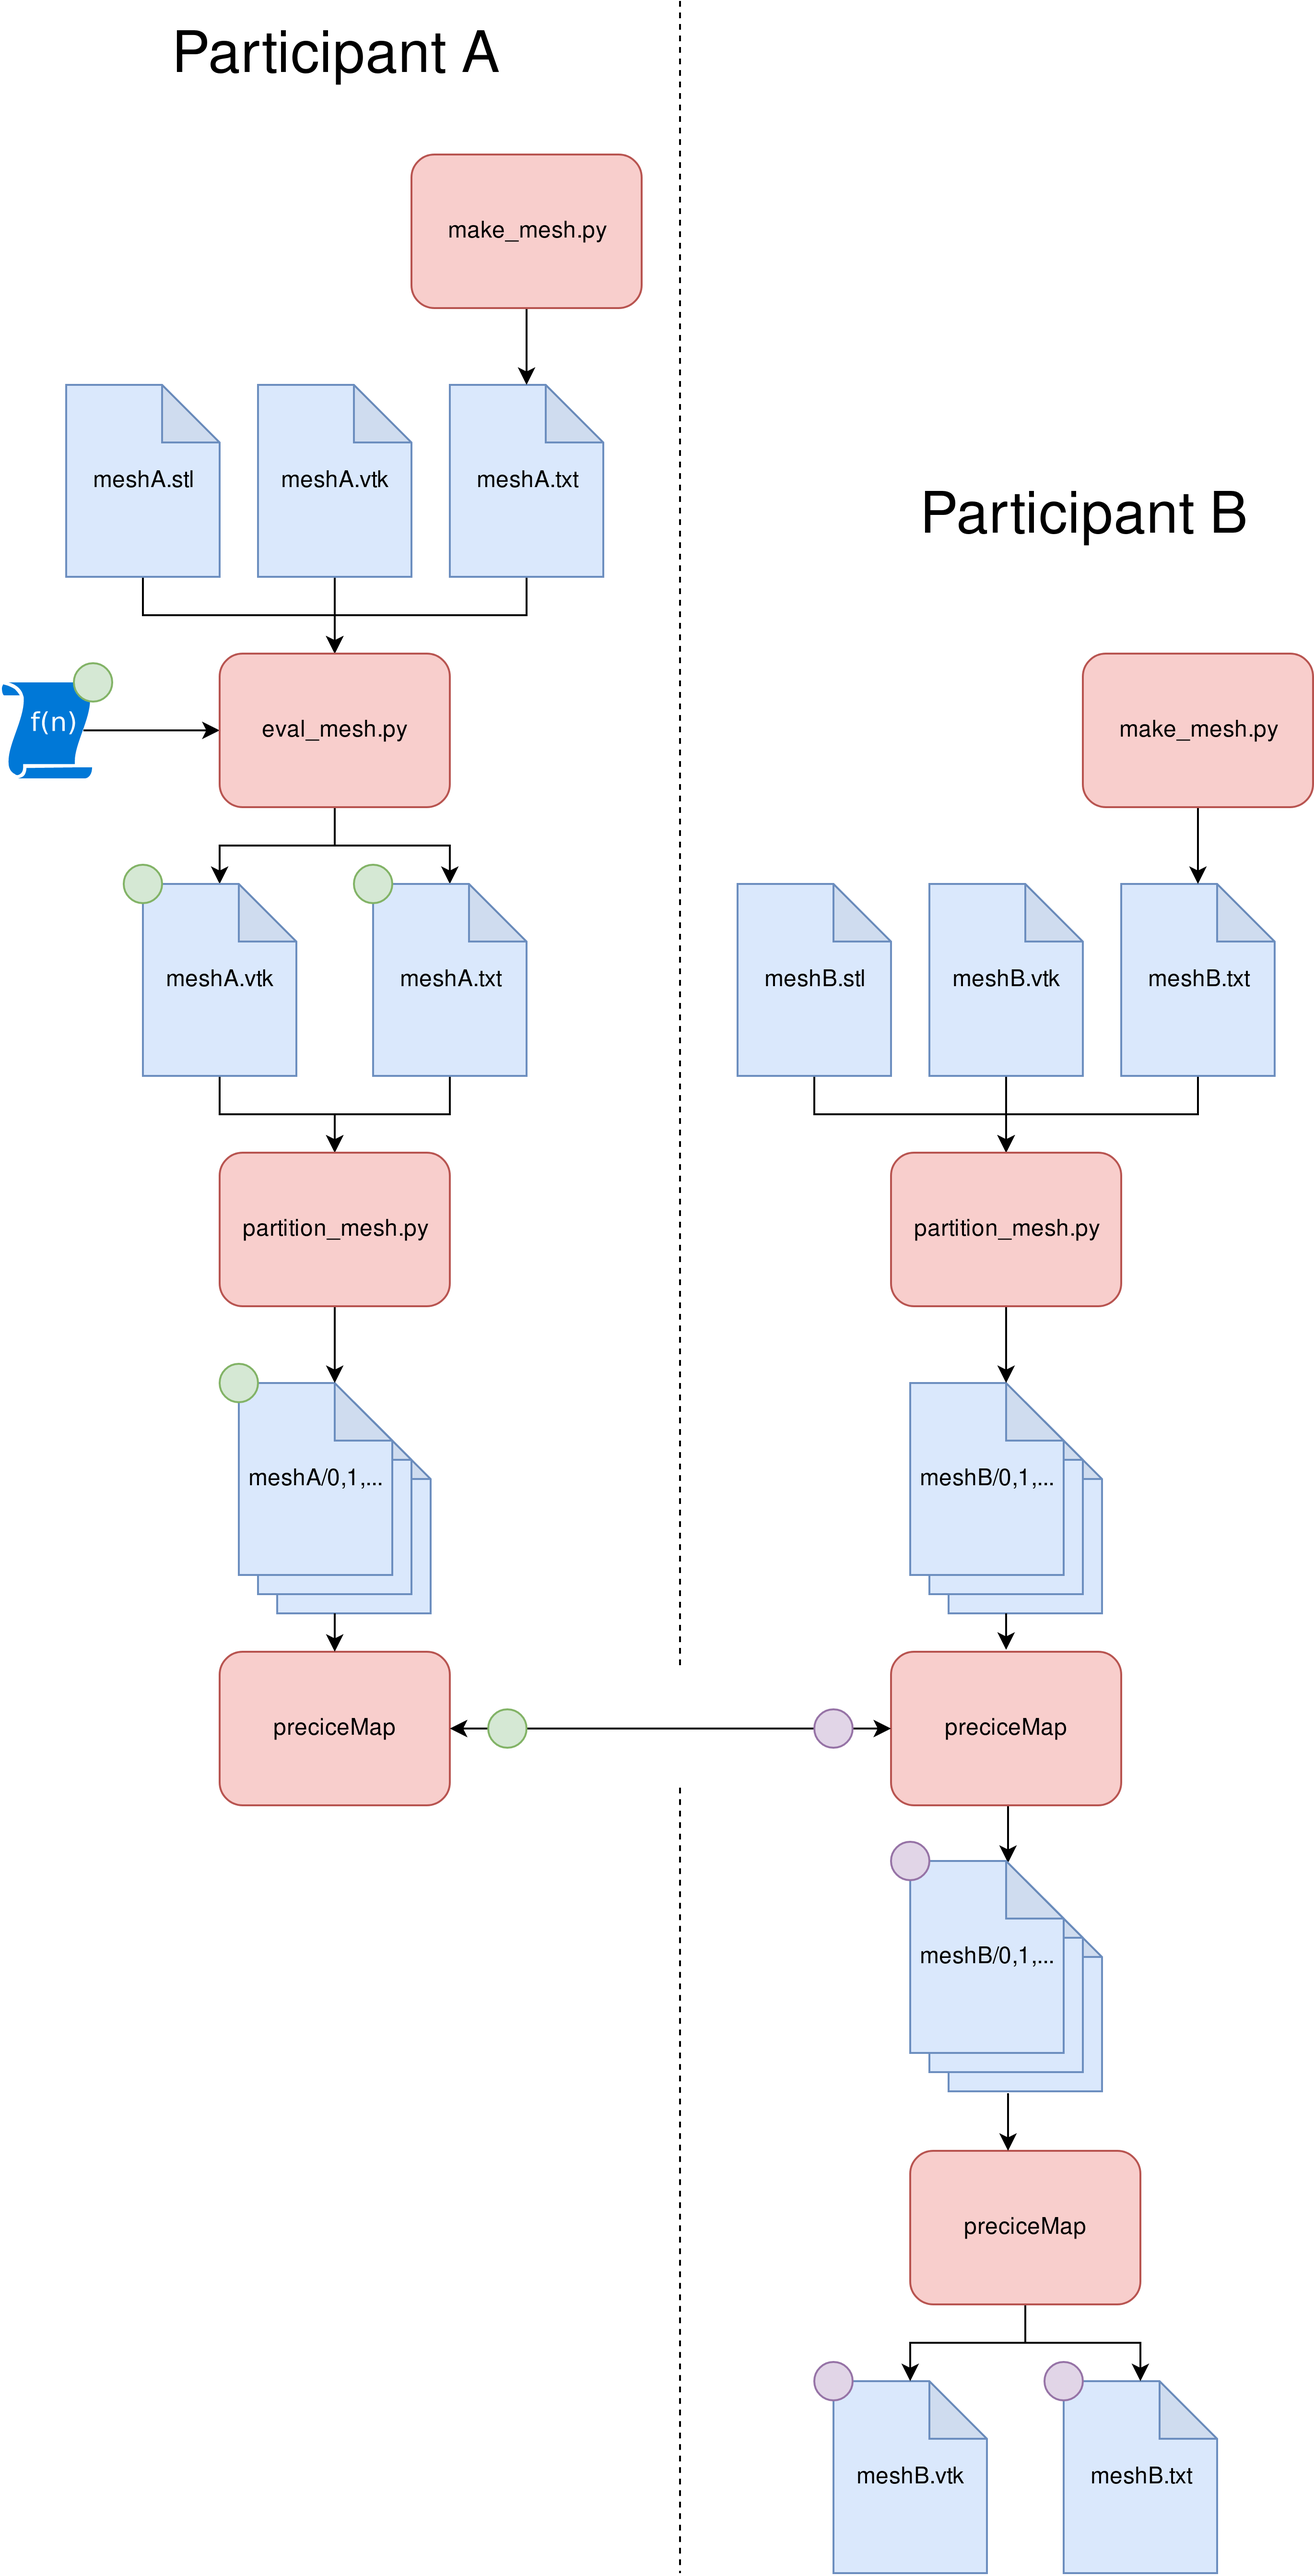
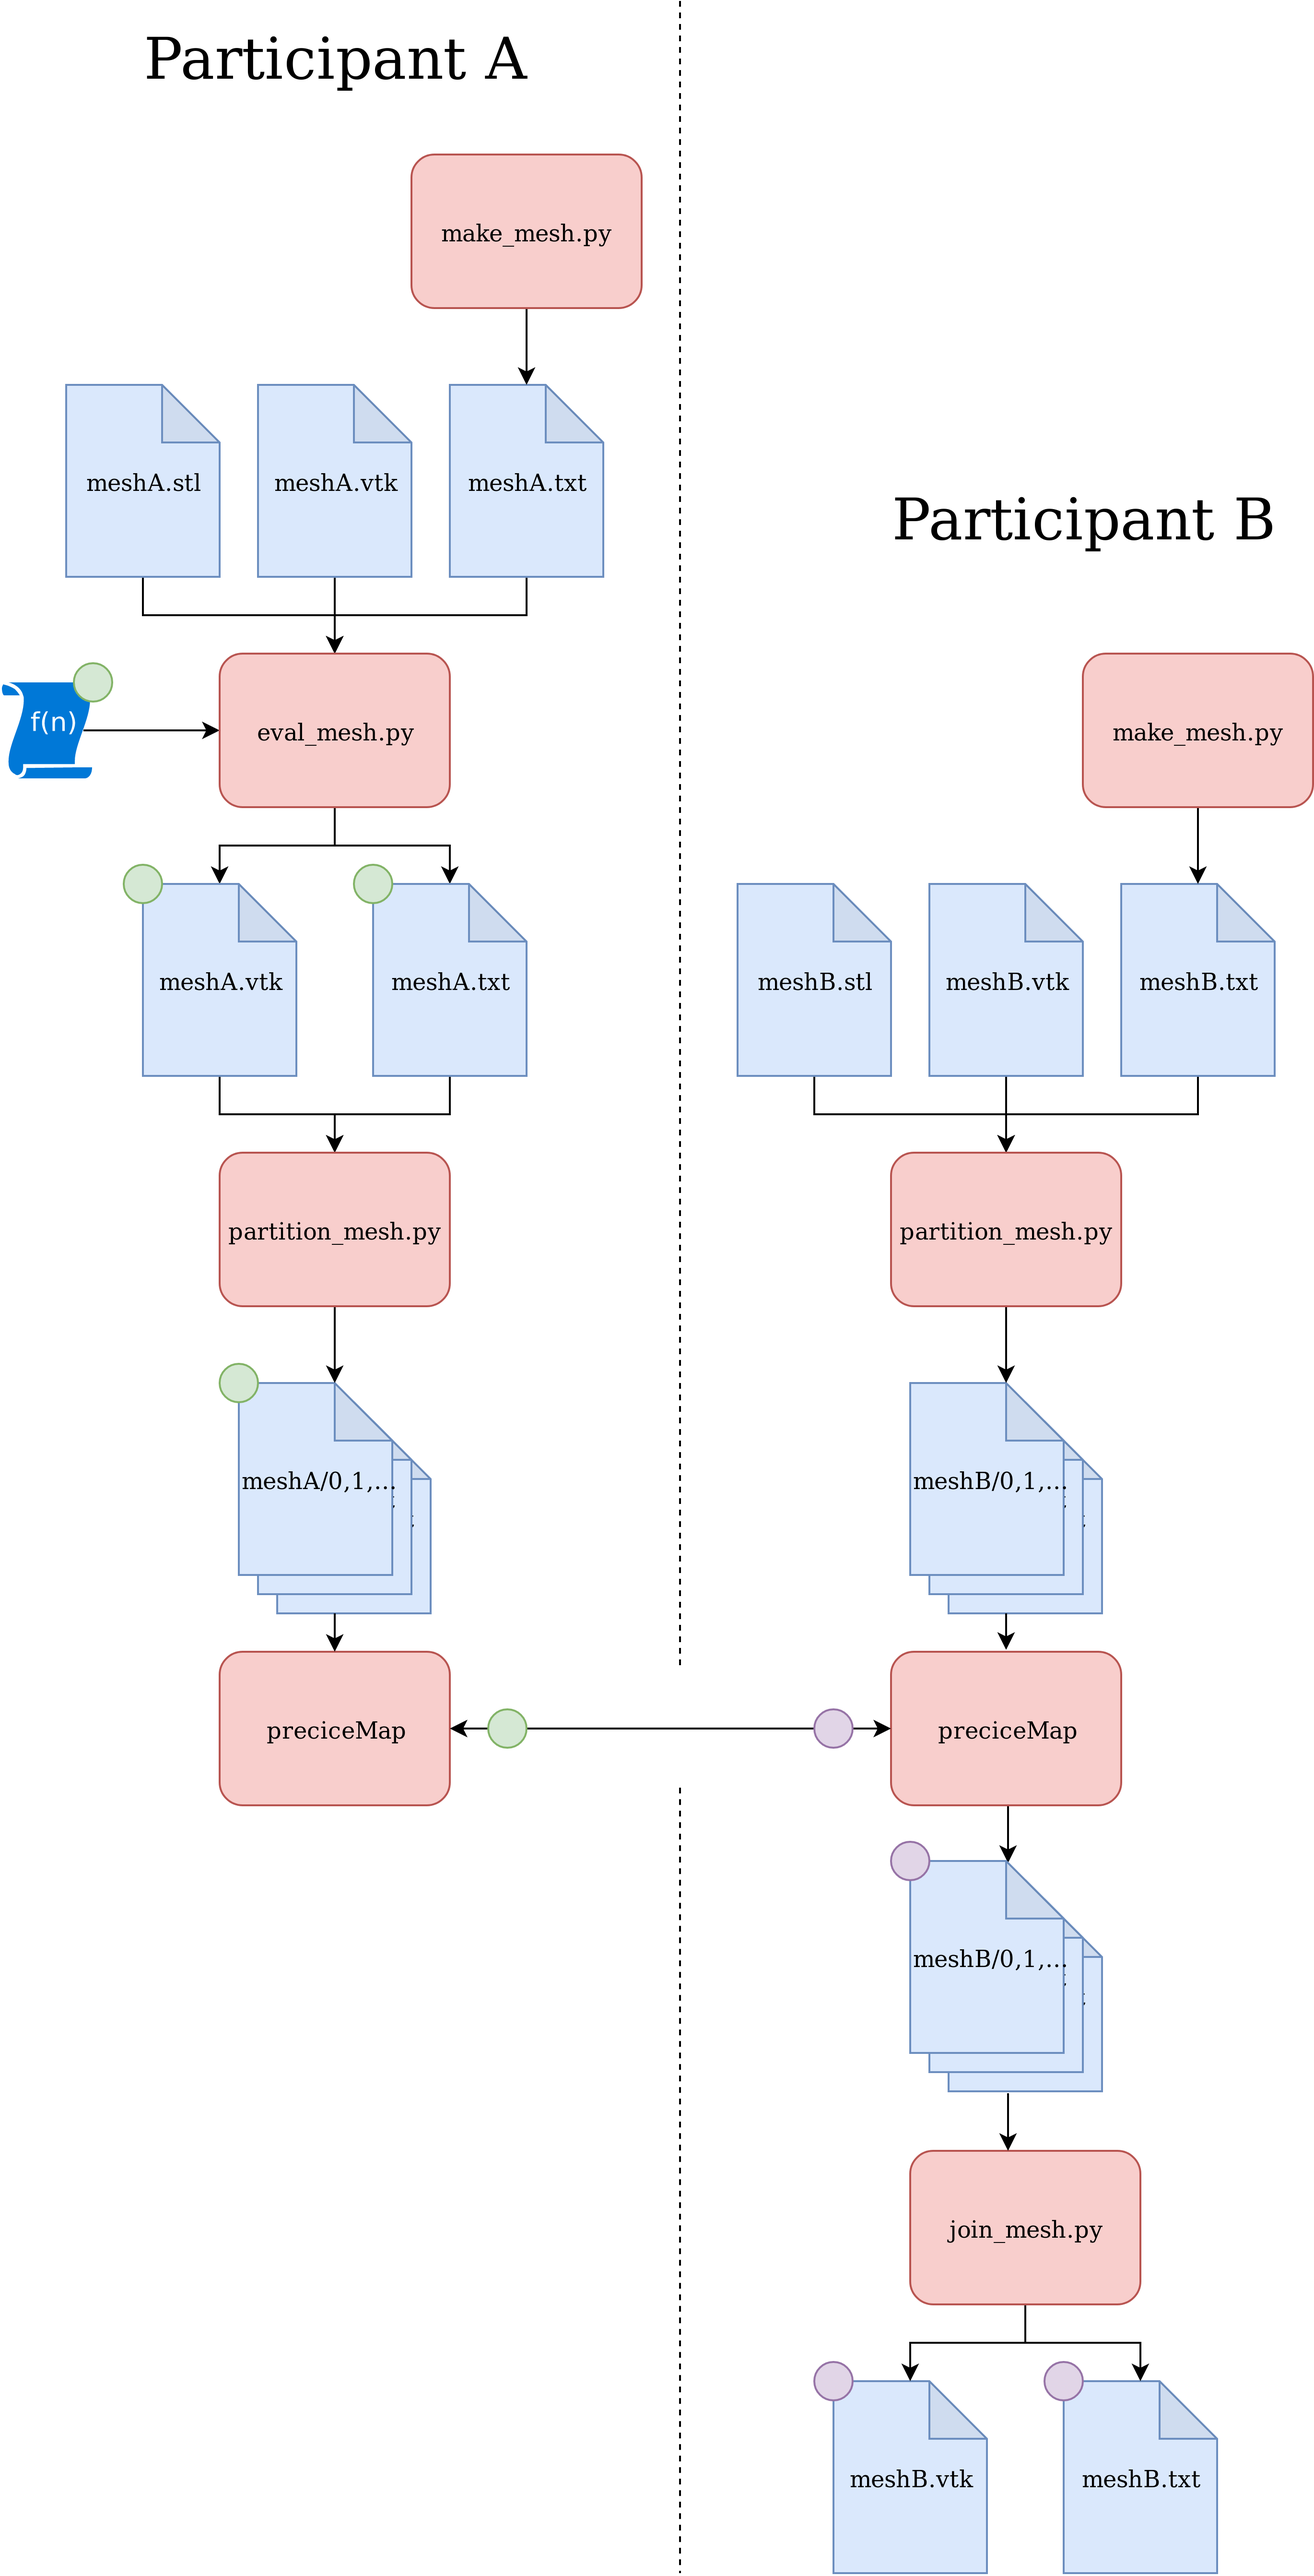
Add linebreaks, improve reduce_dims, improve README, add visualize_mesh, fix AsteFlow, Fix typos

diff --git a/partition_mesh.py b/partition_mesh.py
@@ -2,6 +2,7 @@
 import logging
 import os
 import numpy as np
+import math
 from ctypes import *
 import argparse
 import mesh_io
@@ -50,9 +51,12 @@ class Mesh:
 def read_mesh(filename):
     points, cells, _, pointdata = mesh_io.read_mesh(filename)
     return Mesh(points, cells, pointdata)
+
 def partition(mesh, numparts, algorithm):
     """
-    Partitions a mesh using METIS or kmeans. This does not call METIS directly, but instead uses a small C++ Wrapper libmetisAPI.so for convenience. This shared library must be provided if this function should be called.
+    Partitions a mesh using METIS or kmeans. This does not call METIS directly, 
+    but instead uses a small C++ Wrapper libmetisAPI.so for convenience. 
+    This shared library must be provided if this function should be called.
     """
     if algorithm == "meshfree":
         return partition_kmeans(mesh, numparts)
@@ -60,13 +64,15 @@ def partition(mesh, numparts, algorithm):
         return partition_metis(mesh, numparts)
 
 def partition_kmeans(mesh, numparts):
+    """ Partitions a mesh using k-means. This is a meshfree algorithm and
+    requires scipy"""
+    from scipy.cluster.vq import kmeans2
     points = np.copy(mesh.points)
     points = reduce_dimension(points)
-    from scipy.cluster.vq import kmeans2
     _, label = kmeans2(points, numparts)
     return label
 
-def reduce_dimension(mesh):
+def reduce_dimension_simple(mesh):
     testP = mesh[0]
     dead_dims = np.argwhere(np.abs(np.array(testP)) < 1e-9)
     for point in mesh:
@@ -80,8 +86,13 @@ def reduce_dimension(mesh):
     return mesh[:,mask]
 
 
-def reduce_dimension_WIP(mesh):
-    pA, pB, pC = mesh[:3]
+def reduce_dimension(mesh):
+    """
+    This function gets a list of points in 3d and if all of them are within one plane it
+    returns a list of 2d points in the plane, else the unmodified list is returned.
+    """
+    pA, pB = mesh[:2]
+    pC = mesh[-1]
     pA = np.array(pA)
     AB = pB - pA
     AC = pC - pA
@@ -89,14 +100,35 @@ def reduce_dimension_WIP(mesh):
     # Every point x in the plane must fulfill (x - pA) * n = 0
     for x in mesh:
         if not np.dot(x - pA, n) == 0:
-            break
+            return mesh
     else: # All Points within plane
         # Transform mesh so all points have form (0, y, z)
-        pass # TODO: This is WIP
+        # Compute Euler-Rodrigues rotation matrix
+        n /= np.linalg.norm(n) # Normalize
+        zUnit = np.array((0,0,1))
+        phi = math.acos(np.dot(n, zUnit))
+        logging.info("Rotating mesh with phi = " + str(360 * phi/(2 * math.pi)) + " degrees.")
+        axis = np.cross(n, zUnit)
+        axis /= np.linalg.norm(axis)
+        a = math.cos(phi/2)
+        b = math.sin(phi/2) * axis[0]
+        c = math.sin(phi/2) * axis[1]
+        d = math.sin(phi/2) * axis[2]
+        rotMat = np.array((
+                (a**2 + b**2 - c**2 - d**2, 2*(b*c - a*d),              2*(b*d + a*c)),
+                (2*(b*c + a*d),             a**2 + c**2 - b**2 - d**2,  2*(c*d - a*b)),
+                (2*(b*d - a*c),             2*(c*d + a*b),              a**2 + d**2 - b**2 - c**2)))
+        for i, x in enumerate(mesh): # Translate & Rotate
+            x -= pA
+            x = x @ rotMat
+            mesh[i] = x
+        return mesh[:,:-1]
 
 def partition_metis(mesh, numparts):
     """
-    Partitions a mesh using METIS. This does not call METIS directly, but instead uses a small C++ Wrapper libmetisAPI.so for convenience. This shared library must be provided if this function should be called.
+    Partitions a mesh using METIS. This does not call METIS directly, 
+    but instead uses a small C++ Wrapper libmetisAPI.so for convenience. 
+    This shared library must be provided if this function should be called.
     """
     cellPtr = [0]
     cellData = []
@@ -120,7 +152,7 @@ def apply_partition(orig_mesh, part, numparts):
     """
     Partitions a mesh into many meshes when given a partition and a mesh.
     """
-    meshes = [Mesh()] * numparts
+    meshes = [Mesh() for _ in range(numparts)]
     for i in range(len(orig_mesh.points)):
         selected = meshes[part[i]]
         selected.points.append(orig_mesh.points[i])
@@ -139,12 +171,20 @@ def write_meshes(meshes, dirname):
         mesh = meshes[i]
         mesh_io.write_txt(dirname + "/" + str(i), mesh.points, mesh.pointdata)
 def parse_args():
-    parser = argparse.ArgumentParser(description="Read vtk meshes, partition them and write them out in internal format")
+    parser = argparse.ArgumentParser(description="""Read vtk meshes, partition them 
+            and write them out in internal format""")
     parser.add_argument("in_meshname", metavar="inputmesh", help="The vtk mesh used as input")
     parser.add_argument("--out", "-o", dest="out_meshname", help="The output mesh directory name")
-    parser.add_argument("--numparts", "-n", dest="numparts", default=1, type=int, help="The number of parts to split into")
-    parser.add_argument("--algorithm", "-a", dest="algorithm", choices=["meshfree", "topology"], help="Change the algorithm used for determining a partition. A meshfree algorithm works on arbitrary meshes without needing topological information. A topology-based algorithm needs topology information and is therefore useless on point clouds")
-    parser.add_argument("--log", "-l", dest="logging", default="INFO", choices=["DEBUG", "INFO", "WARNING", "ERROR", "CRITICAL"], help="Set the log level. Default is INFO")
+    parser.add_argument("--numparts", "-n", dest="numparts", default=1, type=int, 
+            help="The number of parts to split into")
+    parser.add_argument("--algorithm", "-a", dest="algorithm", choices=["meshfree", "topology"], 
+            help="""Change the algorithm used for determining a partition. 
+            A meshfree algorithm works on arbitrary meshes without needing topological information. 
+            A topology-based algorithm needs topology information 
+            and is therefore useless on point clouds""")
+    parser.add_argument("--log", "-l", dest="logging", default="INFO", 
+            choices=["DEBUG", "INFO", "WARNING", "ERROR", "CRITICAL"], 
+            help="Set the log level. Default is INFO")
     return parser.parse_args()
 
 if __name__ == "__main__":

diff --git a/join_mesh.py b/join_mesh.py
@@ -14,7 +14,8 @@ def main():
 
 def read_mesh(dirname, length = None):
     """
-    Reads a mesh from the given directory. If length is given, only the first length parts are read, else length is inferred from the files. 
+    Reads a mesh from the given directory. If length is given, only the first length parts are read, 
+    else length is inferred from the files. 
     """
     if not length:
         length = 0
@@ -32,11 +33,15 @@ def read_mesh(dirname, length = None):
     return all_points, all_values
 
 def parse_args():
-    parser = argparse.ArgumentParser(description="Read a partitioned mesh and join it into a .vtk or .txt file.")
+    parser = argparse.ArgumentParser(description="""Read a partitioned mesh 
+            and join it into a .vtk or .txt file.""")
     parser.add_argument("in_meshname", metavar="inputmesh", help="The partitioned mesh used as input")
     parser.add_argument("--out", "-o", dest="out_meshname", help="The output mesh. Can be vtk or txt.")
-    parser.add_argument("--numparts", "-n", dest="numparts", type=int, help="The number of parts to read from the input mesh. By default the entire mesh is read.")
-    parser.add_argument("--log", "-l", dest="logging", default="INFO", choices=["DEBUG", "INFO", "WARNING", "ERROR", "CRITICAL"], help="Set the log level. Default is INFO")
+    parser.add_argument("--numparts", "-n", dest="numparts", type=int, 
+            help="The number of parts to read from the input mesh. By default the entire mesh is read.")
+    parser.add_argument("--log", "-l", dest="logging", default="INFO", 
+            choices=["DEBUG", "INFO", "WARNING", "ERROR", "CRITICAL"], help="Set the log level. Default is INFO")
     return parser.parse_args()
+
 if __name__ == "__main__":
     main()

diff --git a/mesh_io.py b/mesh_io.py
@@ -1,8 +1,18 @@
+""" 
+Mesh I/O utility script. One can read meshes from .vtk, .txt, .vtu, .vtp,... files
+ and save to .txt, .vtk and .vtu
+"""
+
 def read_mesh(filename):
+    """
+    Returns Mesh Points, Mesh Cells, Mesh Celltypes, 
+    Mesh Pointdata in this order
+    """
     if filename[-4:] == ".txt":
         return read_txt(filename)
     else:
         return read_vtk(filename)
+
 def write_mesh(filename, points, cells = None, cell_types = None, values = None):
     if filename[-4:] == ".txt":
         if cells is not None and len(cells) > 0:
@@ -39,7 +49,7 @@ def read_dataset(filename):
         reader = vtk.vtkDataSetReader()
     elif (extension == ".vtp"): # VTK XML Poly format
         reader = vtk.vtkXMLPolyDataReader()
-    elif (extension == ".vtp"): # VTK XML Unstructured format
+    elif (extension == ".vtu"): # VTK XML Unstructured format
         reader = vtk.vtkXMLUnstructuredGridReader()
     elif (extension == ".stl"): # Stereolithography format
         reader = vtk.vtkSTLReader()
@@ -96,6 +106,7 @@ def write_vtk(filename, points, cells = None, cell_types = None, pointdata = Non
     writer.SetFileName(filename)
     writer.SetInputData(data)
     writer.Write()
+
 def write_dataset(filename, dataset):
     import vtk
     extension = filename[-4:]
@@ -108,6 +119,7 @@ def write_dataset(filename, dataset):
     writer.SetFileName(filename)
     writer.SetInputData(dataset)
     writer.Write()
+
 def write_txt(filename, points, pointdata = None):
     with open(filename, "w") as fh:
         for i, point in enumerate(points):

diff --git a/eval_mesh.py b/eval_mesh.py
@@ -30,9 +30,15 @@ def user_func(points, f_str = None):
 def parse_args():
     parser = argparse.ArgumentParser(description="Evaluate a function on a given mesh")
     parser.add_argument("in_meshname", metavar="inputmesh", help="The mesh used as input")
-    parser.add_argument("--func", "-f", dest="f_str", help="The function to evalutate on the mesh. Points are given in the form \"x = [[x1,y1,z1],[x2,y2,z2],...]\" as a numpy array. Output must be written to \"y\". Default is the 0 function.")
-    parser.add_argument("--out", "-o", dest="out_meshname", help="The output meshname. Default is the same as for the input mesh")
-    parser.add_argument("--log", "-l", dest="logging", default="INFO", choices=["DEBUG", "INFO", "WARNING", "ERROR", "CRITICAL"], help="Set the log level. Default is INFO")
+    parser.add_argument("--func", "-f", dest="f_str", 
+            help="""The function to evalutate on the mesh. 
+            Points are given in the form \"x = [[x1,y1,z1],[x2,y2,z2],...]\" as a numpy array. 
+            Output must be written to \"y\". Default is the 0 function.""")
+    parser.add_argument("--out", "-o", dest="out_meshname", help="""The output meshname. 
+            Default is the same as for the input mesh""")
+    parser.add_argument("--log", "-l", dest="logging", default="INFO", 
+            choices=["DEBUG", "INFO", "WARNING", "ERROR", "CRITICAL"], help="""Set the log level. 
+            Default is INFO""")
     return parser.parse_args()
 
 if __name__ == "__main__":

diff --git a/visualize_partition.py b/visualize_partition.py
@@ -1,0 +1,16 @@
+#!/usr/bin/env python3
+""" Small script to visualize a partition by adding the rank number as Point Data."""
+import argparse
+import os
+from mesh_io import *
+
+parser = argparse.ArgumentParser(description="Visualize partition of a mesh as pointData")
+parser.add_argument("meshname", metavar="inputmesh", help="The mesh used as input")
+args = parser.parse_args()
+dirname = args.meshname
+i = 0
+while os.path.isfile(dirname + "/" + str(i)):
+    filename = dirname + "/" + str(i)
+    points, _, _, _ = read_txt(filename)
+    write_txt(filename, points, [i] * len(points))
+    i += 1

diff --git a/README.md b/README.md
@@ -9,22 +9,33 @@ aste consists of compiled C++ Modules and of Python modules.
 Reads a mesh as either `.vtk` or `.txt` and evaluates a function given by `-f` on it. The function gets the mesh points a numpy array of the form `x = [[x_1, y_1, z_1], ...]` and should store the result in `y`.
 ### partition_mesh.py
 Reads a mesh as either `.vtk` or `.txt`, partitions it and stores the parts in a directory like `dirname/0, 1, ...`. 
-This python module needs the C++ module `libmetisAPI.so`.
+For partitioning two algorithms are available. The meshfree algorithm does not need any mesh topology information, 
+whereas the topological algorithm needs topology information. 
+This python module needs the C++ module `libmetisAPI.so` if the topological algorithm is used.
 ### join_mesh.py
-Reads a partitioned mesh from a directory like `dirname/0, 1, ...` and saves it to a `.vtk` or `.txt` file.
+Reads a partitioned mesh from a directory like `dirname/0, 1, ...` and saves it to a single file.
+### libMetisAPI
+This is a small C++ wrapper around METIS. It is only required if `partition_mesh.py` should use a topological algorithm. 
+### preciceMap
+This is a C++ Module, which does the coupling through precice. It expects a mesh in the format given by `partition_mesh.py`.
 
 ## Dependencies
 ### C++ modules
+##### Required
 - preCICE
 - Eigen3
 - MPI
 - CMake
+##### Optional
 - METIS
 ### Python modules
+##### Required
 - NumPy
+##### Optional
 - vtk (Visualization Toolkit)
+- scipy
 ## Building
-Make sure to have all the dependencies installed. Then do:
+Make sure to have all the needed dependencies installed. Then do:
 ```
 mkdir build
 cd build
